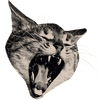
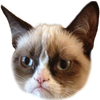
Add small cats

diff --git a/lib/game.js b/lib/game.js
@@ -19,12 +19,21 @@
 
   Game.DIM_X = 1152;
   Game.DIM_Y = 648;
-  Game.NUM_ASTEROIDS = 3;
+  Game.NUM_BIG_ASTEROIDS = 3;
+  Game.NUM_SMALL_ASTEROIDS = 5;
   Game.LIVES = 3;
 
   Game.prototype.addAsteroids = function () {
-    for (var i = 0; i < Game.NUM_ASTEROIDS; i++) {
-      var asteroid = new Asteroids.Asteroid (this.randomPosition(), this);
+    for (var i = 0; i < Game.NUM_BIG_ASTEROIDS; i++) {
+      var asteroid = new Asteroids.Asteroid (this.randomPosition(), this, 85);
+      asteroid.img = new Image();
+      asteroid.img.src = 'img/cat2.png';
+      this.asteroids.push(asteroid);
+    }
+    for (i = 0; i < Game.NUM_SMALL_ASTEROIDS; i++) {
+      var asteroid = new Asteroids.Asteroid (this.randomPosition(), this, 40);
+      asteroid.img = new Image();
+      asteroid.img.src = 'img/cat1.png';
       this.asteroids.push(asteroid);
     }
   };

diff --git a/lib/asteroid.js b/lib/asteroid.js
@@ -4,20 +4,14 @@
     window.Asteroids = {};
   }
 
-  var Asteroid = Asteroids.Asteroid = function (pos, game) {
+  var Asteroid = Asteroids.Asteroid = function (pos, game, radius) {
     Asteroids.MovingObject.call(this, {
       pos: pos,
       vel: Asteroids.Utils.randomVec(3),
-      color: Asteroid.COLOR,
-      radius: Asteroid.RADIUS,
+      radius: radius,
       game: game
     });
-    this.img = new Image();
-    this.img.src = 'img/cat2.png';
   };
-
-  Asteroid.COLOR = "#FFA500";
-  Asteroid.RADIUS = 85;
 
   Asteroids.Utils.inherits(Asteroid, Asteroids.MovingObject);
 
@@ -31,7 +25,7 @@
   };
 
   Asteroid.prototype.draw = function (ctx) {
-    ctx.drawImage(this.img, this.pos[0]-90, this.pos[1]-110);
+    ctx.drawImage(this.img, this.pos[0] - this.radius - 10, this.pos[1] - this.radius - 20);
   };
 
 })();
